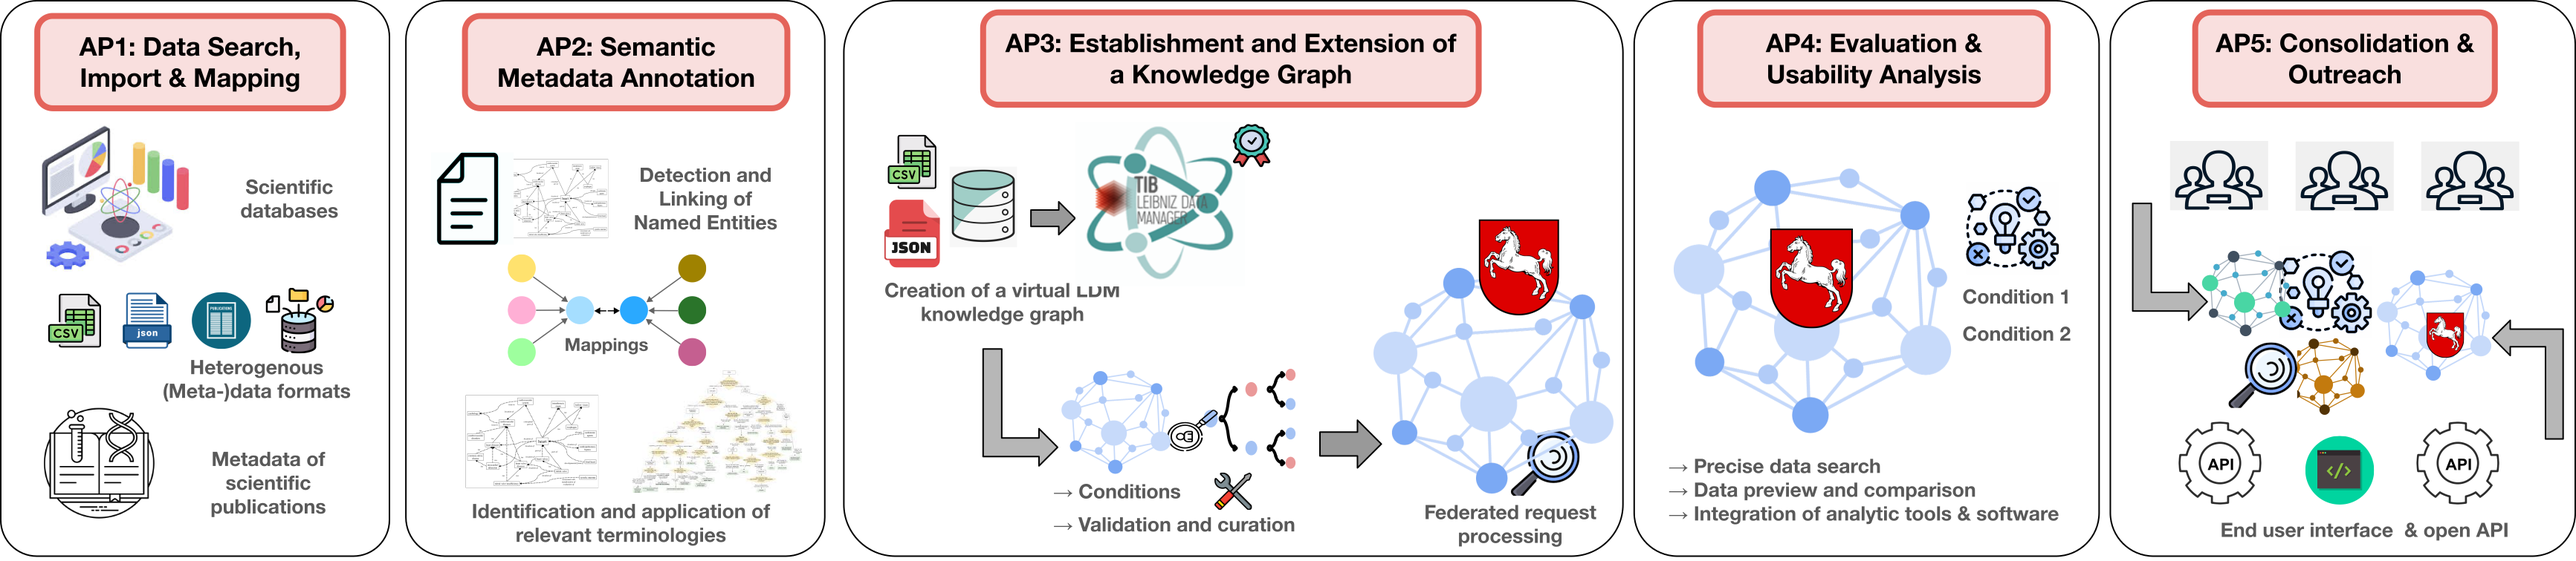
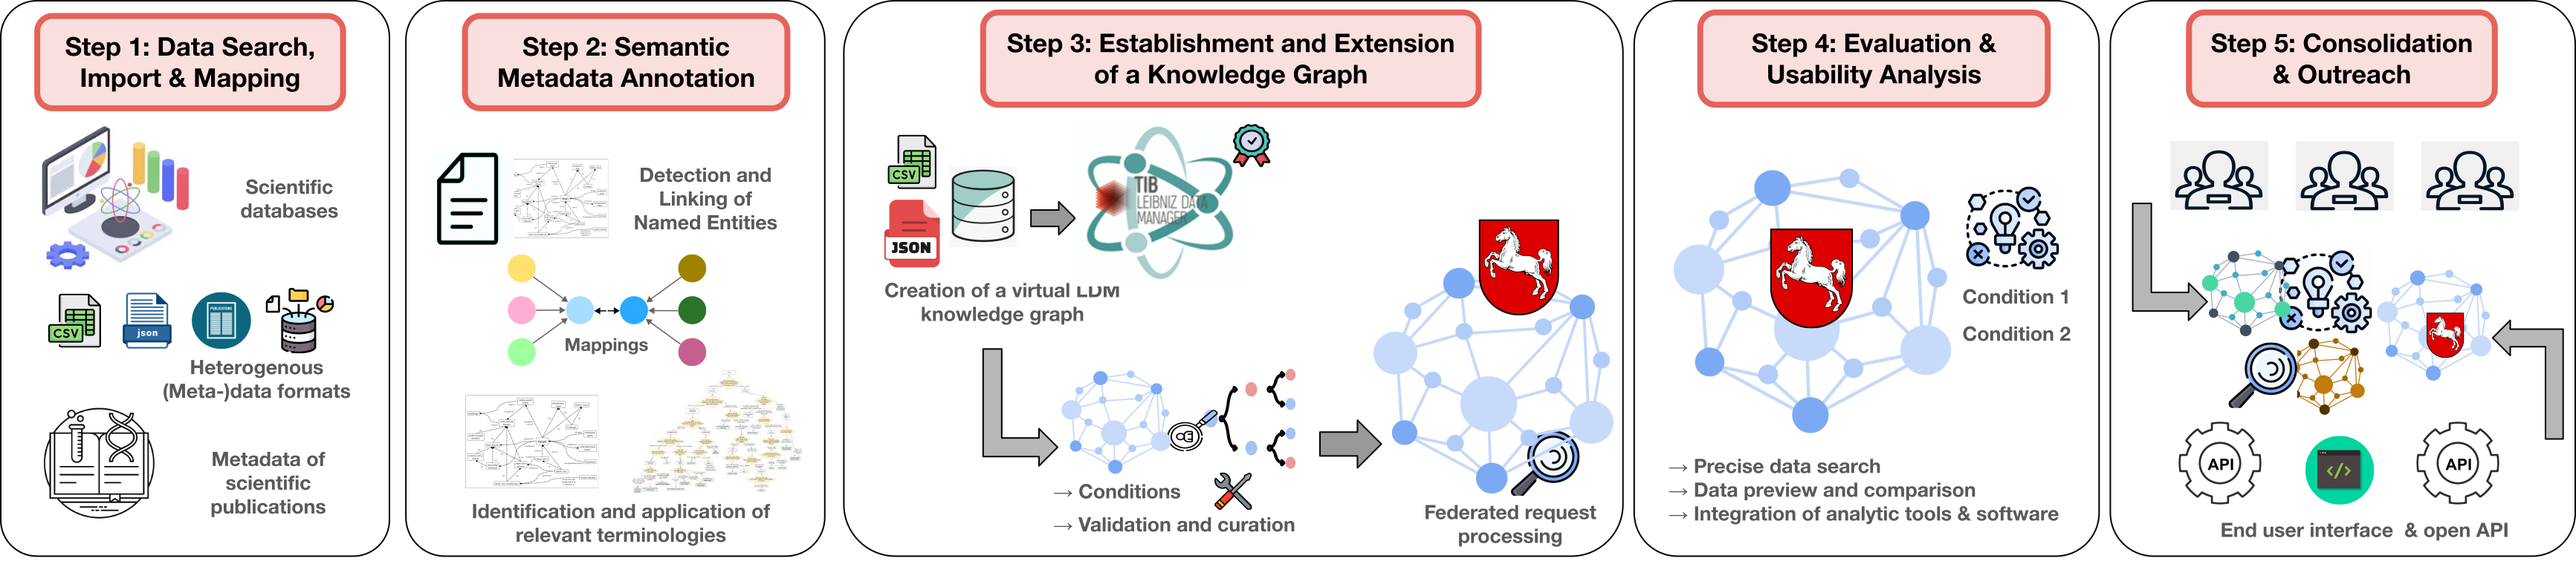
Update README and graphical abstract

diff --git a/README.md b/README.md
@@ -46,6 +46,16 @@ This repository currently contains metadata mappings from a selection of researc
 <!-- TODO: Add table of repo paths and their purposes -->
 *Coming soon*
 
+**Current Status**
+
+This repository currently contains metadata mappings from a selection of research data repositories in Lower Saxony. These mappings serve as the foundation for building a unified knowledge graph and will be expanded to include:
+
+- Full data harvesting pipeline (incl. open source code for all steps)  
+- Semantic enrichment workflows (NER, ontology alignment)  
+- Knowledge graph construction and storage (RDF triplestores)  
+- Documentation of ontologies, mappings, and best practices
+- Example SPARQL queries
+
 ## Data Sources
 
 The metadata of the following research data repositories in Lower Saxony is being included in Nds-WiDaX:
